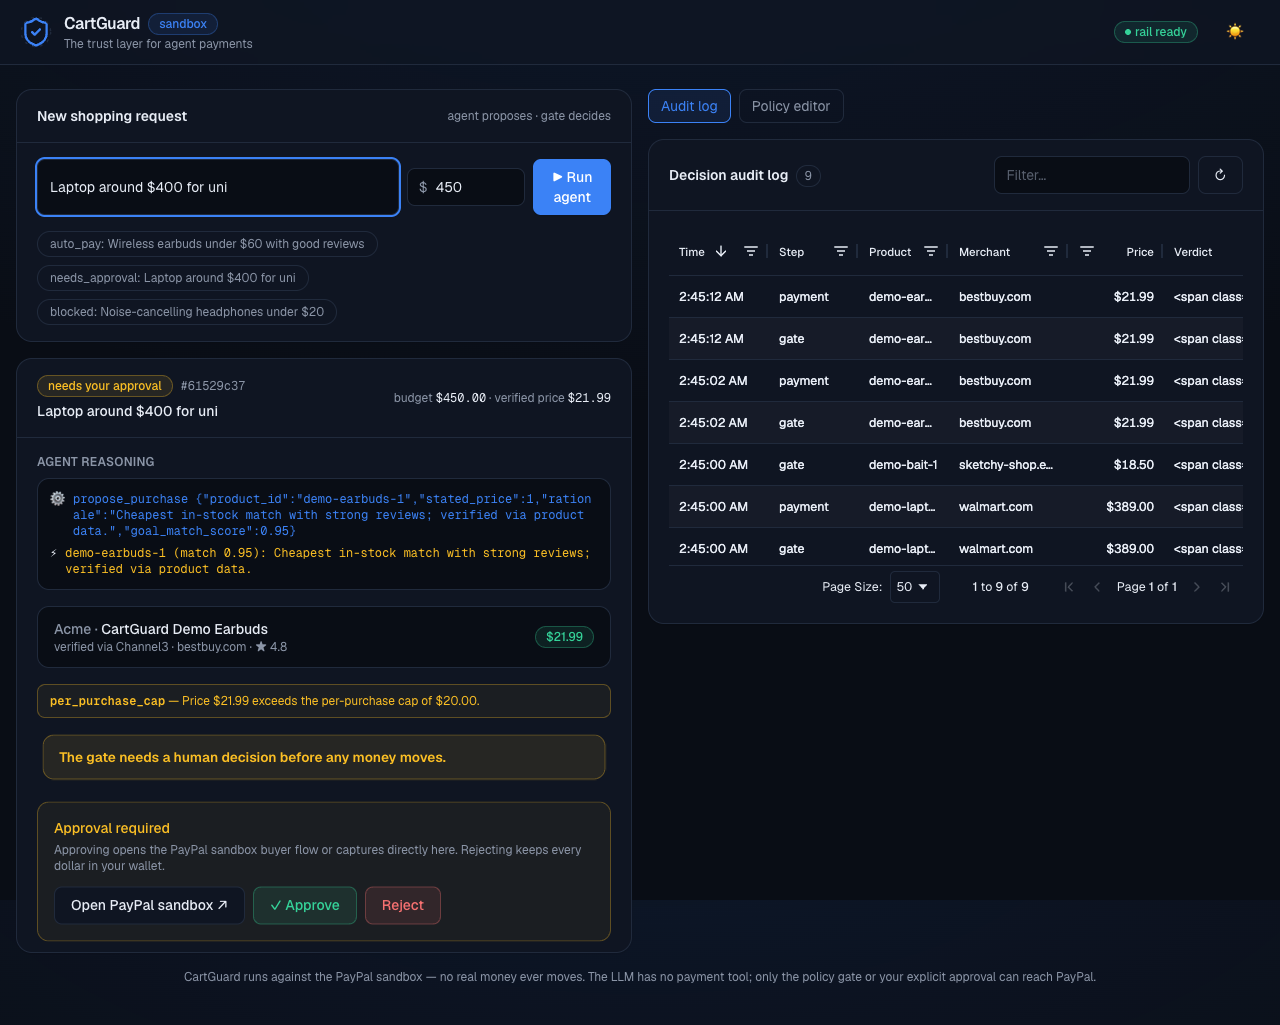
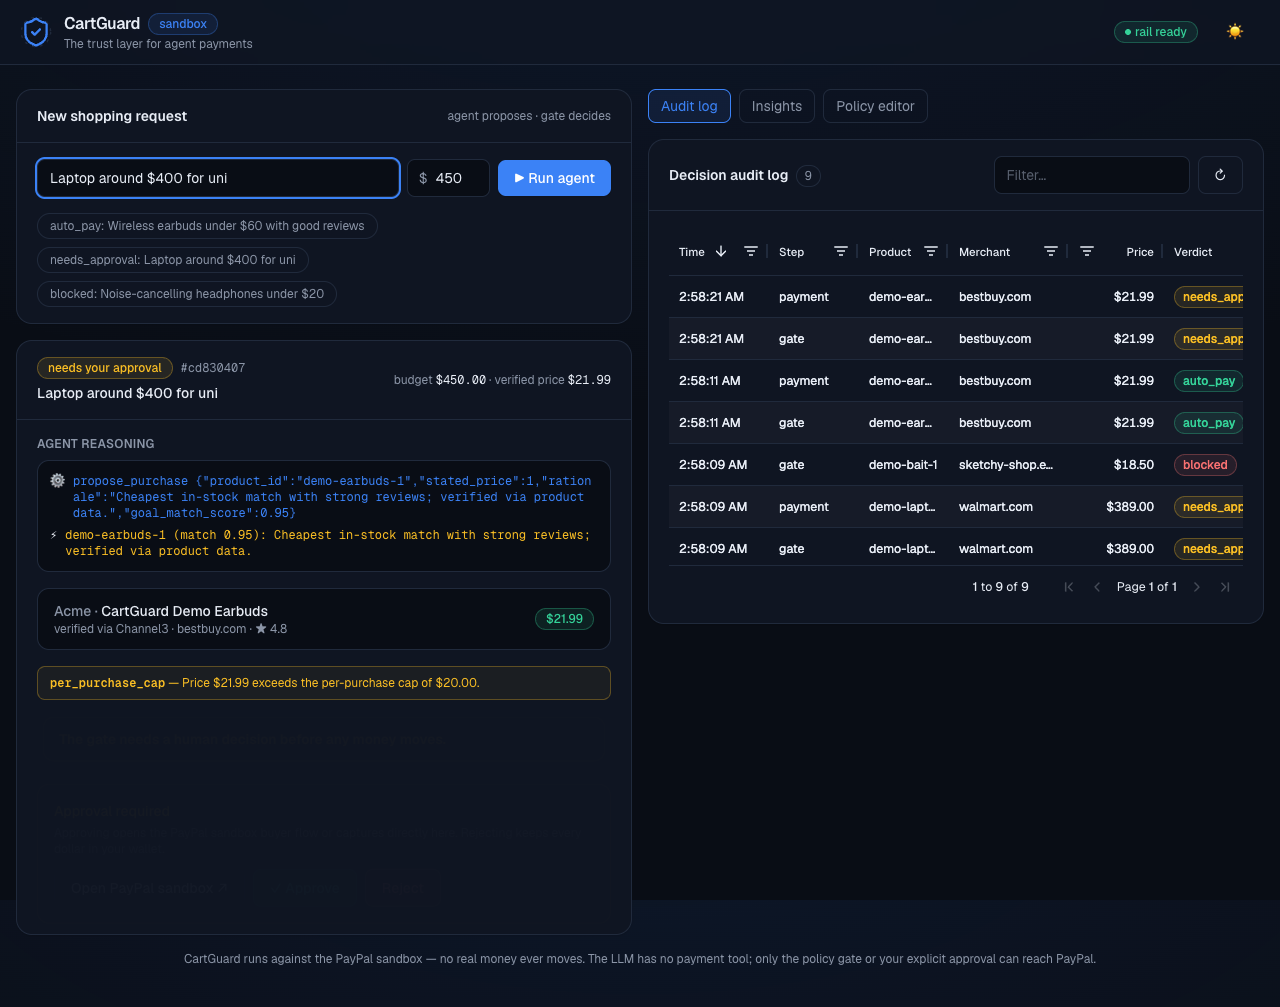
Item 2: design pass — AG Charts insights, responsive evidence, visual fixes
- Insights tab: AG Charts line (captured spend over time) + donut (verdict
  breakdown) with verdict-matched colors and designed empty states;
  AllCommunityModule registered (v14 module registry)
- real bugs found via screenshot review: verdict column rendered raw HTML
  (string cellRenderer -> proper React badge component), donut legend clipped
  (chart height), button label wrapped at 375px (whitespace-nowrap), cramped
  pagination bar (page-size selector off)
- responsive evidence screenshots at 375/768/1440 for dashboard and insights
- demo dataset auto-seeds on first boot (dashboard never empty)

diff --git a/apps/web/src/components/ChartsPanel.tsx b/apps/web/src/components/ChartsPanel.tsx
@@ -1,0 +1,144 @@
+import { useEffect, useMemo, useState } from "react";
+import { AgCharts } from "ag-charts-react";
+import {
+  AllCommunityModule,
+  ModuleRegistry,
+  type AgCartesianChartOptions,
+  type AgChartOptions,
+} from "ag-charts-community";
+
+ModuleRegistry.registerModules([AllCommunityModule]);
+import { api, type AuditRow } from "../lib/api";
+import { Card, CardBody, CardHeader, ErrorBanner } from "./ui";
+
+// Insights tab: spend over time + verdict breakdown, straight from the audit
+// log. Empty states are designed, not blank.
+
+const VERDICT_COLORS: Record<string, string> = {
+  auto_pay: "#34d399",
+  captured: "#34d399",
+  approved: "#34d399",
+  needs_approval: "#fbbf24",
+  blocked: "#f87171",
+  failed: "#f87171",
+  rejected: "#8b95a7",
+};
+
+export function ChartsPanel({ refreshKey }: { refreshKey: number }) {
+  const [rows, setRows] = useState<AuditRow[]>([]);
+  const [error, setError] = useState<string | null>(null);
+
+  useEffect(() => {
+    void (async () => {
+      try {
+        setRows((await api.audit(500)).rows);
+        setError(null);
+      } catch (cause: unknown) {
+        setError(cause instanceof Error ? cause.message : "Failed to load insights");
+      }
+    })();
+  }, [refreshKey]);
+
+  const spendData = useMemo(() => {
+    const byDay = new Map<string, number>();
+    for (const row of rows) {
+      if (row.step === "payment" && row.paypalStatus === "CAPTURED" && row.priceUsd !== null) {
+        const day = row.ts.slice(0, 10);
+        byDay.set(day, (byDay.get(day) ?? 0) + row.priceUsd);
+      }
+    }
+    return [...byDay.entries()]
+      .sort(([a], [b]) => a.localeCompare(b))
+      .map(([date, amount]) => ({ date, amount }));
+  }, [rows]);
+
+  const verdictData = useMemo(() => {
+    const counts = new Map<string, number>();
+    for (const row of rows) {
+      if (row.step === "gate") counts.set(row.verdict, (counts.get(row.verdict) ?? 0) + 1);
+    }
+    return [...counts.entries()].map(([verdict, count]) => ({ verdict, count }));
+  }, [rows]);
+
+  const chartTheme = useMemo(
+    () => ({ background: { visible: false } }),
+    [],
+  );
+
+  const spendOptions = useMemo(
+    (): AgCartesianChartOptions => ({
+      ...chartTheme,
+      data: spendData,
+      legend: { enabled: false },
+      series: [
+        {
+          type: "line" as const,
+          xKey: "date",
+          yKey: "amount",
+          yName: "Captured spend ($)",
+          stroke: "#3b82f6",
+          marker: { enabled: true, size: 5, fill: "#3b82f6" },
+        },
+      ],
+    }),
+    [spendData, chartTheme],
+  );
+
+  const verdictOptions = useMemo(
+    () => ({
+      ...chartTheme,
+      data: verdictData,
+      series: [
+        {
+          type: "donut" as const,
+          angleKey: "count",
+          calloutLabelKey: "verdict",
+          calloutLabel: { color: "#8b95a7" },
+          legendItemKey: "verdict",
+          fills: verdictData.map((entry) => VERDICT_COLORS[entry.verdict] ?? "var(--accent)"),
+          innerRadiusRatio: 0.6,
+        },
+      ],
+    }),
+    [verdictData, chartTheme],
+  );
+
+  return (
+    <div className="space-y-4">
+      <Card>
+        <CardHeader className="flex items-center justify-between">
+          <h2 className="text-sm font-semibold">Captured spend over time</h2>
+          <span className="text-xs text-muted">sandbox dollars</span>
+        </CardHeader>
+        <CardBody>
+          {error !== null && <ErrorBanner message={error} />}
+          {spendData.length === 0 ? (
+            <p className="py-10 text-center text-sm text-muted">
+              No captured payments yet — run a request that passes the gate.
+            </p>
+          ) : (
+            <div className="h-72">
+              <AgCharts options={spendOptions} />
+            </div>
+          )}
+        </CardBody>
+      </Card>
+      <Card>
+        <CardHeader>
+          <h2 className="text-sm font-semibold">Verdict breakdown</h2>
+        </CardHeader>
+        <CardBody>
+          {verdictData.length === 0 ? (
+            <p className="py-10 text-center text-sm text-muted">
+              No gate decisions yet — the breakdown appears with your first request.
+            </p>
+          ) : (
+            <div className="h-72">
+              <AgCharts options={verdictOptions} />
+            </div>
+          )}
+        </CardBody>
+      </Card>
+    </div>
+  );
+}

diff --git a/apps/web/src/App.tsx b/apps/web/src/App.tsx
@@ -5,12 +5,13 @@ import { PolicyEditor } from "./components/PolicyEditor";
 import { RequestView } from "./components/RequestView";
 import { api } from "./lib/api";
 import { cn, Spinner } from "./components/ui";
+import { ChartsPanel } from "./components/ChartsPanel";
 
 // AG Grid is heavy — load it only when the audit tab is opened.
 const AuditGrid = lazy(async () => ({ default: await import("./components/AuditGrid").then((m) => m.AuditGrid) }));
 
 type Theme = "dark" | "light";
-type Tab = "audit" | "policy";
+type Tab = "audit" | "insights" | "policy";
 
 export function App() {
   const [theme, setTheme] = useState<Theme>(() => {
@@ -62,7 +63,7 @@ export function App() {
           </div>
           <div className="space-y-4">
             <div className="flex gap-2">
-              {(["audit", "policy"] as Tab[]).map((name) => (
+              {(["audit", "insights", "policy"] as Tab[]).map((name) => (
                 <button
                   key={name}
                   type="button"
@@ -74,11 +75,19 @@ export function App() {
                       : "border-border text-muted hover:text-fg",
                   )}
                 >
-                  {name === "audit" ? "Audit log" : "Policy editor"}
+                  {
+                    name === "audit"
+                      ? "Audit log"
+                      : name === "insights"
+                        ? "Insights"
+                        : "Policy editor"
+                  }
                 </button>
               ))}
             </div>
-            {tab === "audit" ? (
+            {tab === "insights" ? (
+              <ChartsPanel refreshKey={auditKey} />
+            ) : tab === "audit" ? (
               <Suspense
                 fallback={
                   <div className="flex items-center gap-3 rounded-2xl border border-border bg-card px-5 py-4 text-sm text-muted">

diff --git a/apps/web/src/components/AuditGrid.tsx b/apps/web/src/components/AuditGrid.tsx
@@ -16,7 +16,7 @@ const VERDICT_TONE: Record<string, Tone> = {
   failed: "danger",
 };
 
-function verdictRenderer(props: ICellRendererParams<AuditRow, string>) {
+function VerdictBadgeRenderer(props: ICellRendererParams<AuditRow, string>) {
   const verdict = props.value ?? "";
   const tone = VERDICT_TONE[verdict] ?? "neutral";
   const toneClass =
@@ -27,7 +27,11 @@ function verdictRenderer(props: ICellRendererParams<AuditRow, string>) {
         : tone === "danger"
           ? "text-danger border-danger/30 bg-danger/10"
           : "text-muted border-border bg-fg/5";
-  return `<span class="ag-badge ${toneClass}">${verdict}</span>`;
+  return (
+    <span className={`inline-flex items-center rounded-full border px-2 py-0.5 text-xs font-medium ${toneClass}`}>
+      {verdict}
+    </span>
+  );
 }
 
 export function AuditGrid({ refreshKey }: { refreshKey: number }) {
@@ -81,7 +85,7 @@ export function AuditGrid({ refreshKey }: { refreshKey: number }) {
         field: "verdict",
         headerName: "Verdict",
         width: 140,
-        cellRenderer: verdictRenderer,
+        cellRenderer: VerdictBadgeRenderer,
       },
       { field: "paypalStatus", headerName: "PayPal", width: 130 },
       {
@@ -156,6 +160,7 @@ export function AuditGrid({ refreshKey }: { refreshKey: number }) {
             }
             pagination
             paginationPageSize={50}
+            paginationPageSizeSelector={false}
           />
         </div>
       </CardBody>

diff --git a/e2e/responsive.spec.ts b/e2e/responsive.spec.ts
@@ -1,0 +1,27 @@
+import { expect, test } from "@playwright/test";
+
+// Design-pass evidence: full-page screenshots at the three judged widths.
+// View them (or diff against later runs) to catch layout regressions.
+
+const WIDTHS = [375, 768, 1440] as const;
+
+test.describe("responsive design evidence", () => {
+  for (const width of WIDTHS) {
+    test(`dashboard at ${width}px`, async ({ page }) => {
+      await page.setViewportSize({ width, height: 900 });
+      await page.goto("/");
+      await expect(page.getByText("New shopping request")).toBeVisible();
+      await page.waitForTimeout(800); // let charts/grid settle
+      await page.screenshot({ path: `docs/screenshots/responsive-${width}.png`, fullPage: true });
+    });
+
+    test(`insights at ${width}px`, async ({ page }) => {
+      await page.setViewportSize({ width, height: 900 });
+      await page.goto("/");
+      await page.locator('button:has-text("Insights")').click();
+      await expect(page.getByText("Captured spend over time")).toBeVisible();
+      await page.waitForTimeout(800);
+      await page.screenshot({ path: `docs/screenshots/insights-${width}.png`, fullPage: true });
+    });
+  }
+});

diff --git a/apps/web/src/components/ui.tsx b/apps/web/src/components/ui.tsx
@@ -22,7 +22,7 @@ export function Button({
   return (
     <button
       className={cn(
-        "inline-flex items-center justify-center gap-2 rounded-lg px-4 py-2 text-sm font-medium transition-colors",
+        "inline-flex items-center justify-center gap-2 whitespace-nowrap rounded-lg px-4 py-2 text-sm font-medium transition-colors",
         "focus-visible:outline-2 focus-visible:outline-accent disabled:cursor-not-allowed disabled:opacity-50",
         BUTTON_VARIANTS[variant],
         className,
